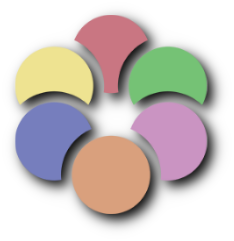
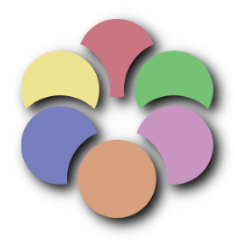
changed button in creator layer (also added quicker connect for faster testing)

Changed region(s): [[0.0598, 0.0581, 0.9872, 0.9585]]

diff --git a/src/Layer/APLogInLayer.cpp b/src/Layer/APLogInLayer.cpp
@@ -154,32 +154,20 @@ bool APLogInLayer::init() {
 
     this->addChild(hostTextLocation);
 
-
     //TEMP
-
-    auto apLayerBtn = CCMenuItemSpriteExtra::create(
-        CCSprite::createWithSpriteFrameName("GJ_arrow_01_001.png"),
+    auto tempConnectButton = CCMenuItemSpriteExtra::create(
+        CCSprite::create("gd-logo.png"_spr),
         this,
-        menu_selector(APLogInLayer::tempAPLayerClick)
+        menu_selector(APLogInLayer::onClickConnectButtonTemp)
     );
-    auto tmp1 = CCMenu::create();
-    tmp1->setPosition({ 75, CCDirector::sharedDirector()->getWinSize().height - 125 });
-    tmp1->addChild(apLayerBtn);
-	tmp1->setID("top-left-temp-ap-layer-btn");
-    this->addChild(tmp1);
 
-    auto progLayerBtn = CCMenuItemSpriteExtra::create(
-        CCSprite::createWithSpriteFrameName("GJ_arrow_02_001.png"),
-        this,
-        menu_selector(APLogInLayer::tempProgressLayerClick)
-    );
-    auto tmp2 = CCMenu::create();
-    tmp2->setPosition({ 505, CCDirector::sharedDirector()->getWinSize().height - 125 });
-    tmp2->addChild(progLayerBtn);
-	tmp2->setID("top-left-temp-prog-layer-btn");
-    this->addChild(tmp2);
-    
-	//TEMP
+	auto tempConnectButtonLocation = CCMenu::create();
+	tempConnectButtonLocation->addChild(tempConnectButton);
+	tempConnectButtonLocation->setPosition({ CCDirector::sharedDirector()->getWinSize().width - 50, 150 });
+	tempConnectButtonLocation->setID("temp-connect-button");
+	
+    this->addChild(tempConnectButtonLocation);
+    //TEMP
 
     return true;
 }
@@ -289,20 +277,37 @@ void APLogInLayer::onClickArchiHostButton(CCObject* btn) {
     }
 }
 
-/*
-void APLogInLayer::connectSuccess() {
-    // goto main screen
-}
-*/
+//TEMP
+void APLogInLayer::onClickConnectButtonTemp(CCObject* btn) {
 
-void APLogInLayer::tempProgressLayerClick(CCObject* btn) {
-    FLAlertLayer::create(
-                "Error",
-                "Connection timed out",
-                "OK"
-                )->show();
-}
+    std::string portStr = this->inputTxtPort->getString();
+    std::string slotNameStr = this->inputTxtName->getString();
+    std::string passwordStr = this->inputTxtPassword->getString();
 
-void APLogInLayer::tempAPLayerClick(CCObject* btn) {
-    APLayer::create()->show();
+    logged_in = true;
+
+    //AP Init
+    const char* host = "localhost:38281";
+    const char* gameName = "Geometry Dash";
+    const char* slotName = "Player1";
+    const char* password = "";
+
+    AP_Init(host, gameName, slotName, password);
+    AP_SetItemClearCallback(&APConnection::clearItemCallback);
+    AP_SetItemRecvCallback(&APConnection::itemReceivedCallback);
+    AP_SetLocationCheckedCallback(&APConnection::locationCheckedCallback);
+
+    // register slot callbacks BEFORE starting the client so slot data is delivered to our callbacks
+    APConnection::worldInputInit();
+
+    AP_Start();
+
+    geode::log::info("Before initOnConnect: {}", APConnection::isInitComplete());
+    // initOnConnect will perform background registration and set an internal flag when done.
+    APConnection::initOnConnect();
+
+    // schedule a UI-thread check to open APLayer once initOnConnect finished.
+    // check every 0.1s; the scheduled callback runs on the main thread.
+    this->schedule(schedule_selector(APLogInLayer::checkInit), 0.1f);
 }
+//TEMP

diff --git a/src/main.cpp b/src/main.cpp
@@ -17,7 +17,7 @@ class $modify(menu, CreatorLayer) {
 
 		auto bottomLeftMenu = this->getChildByID("bottom-left-menu");
 		auto apButton = CCMenuItemSpriteExtra::create(
-			CCSprite::create("archi_shadow.png"_spr),
+			CircleButtonSprite::createWithSprite("archi_shadow.png"_spr, 1.2f),
 			this,
 			menu_selector(menu::onAPButtonClick)
 		);

diff --git a/src/Layer/APLogInLayer.hpp b/src/Layer/APLogInLayer.hpp
@@ -16,9 +16,7 @@ public:
 
     void onBackButtonClick(CCObject* btn);
 	void onClickConnectButton(CCObject* btn);
-
-    void tempProgressLayerClick(CCObject* btn);
-    void tempAPLayerClick(CCObject* btn);
+	void onClickConnectButtonTemp(CCObject* btn);
 
 	void onClickArchiHostButton(CCObject* btn);
 	//void connnectSuccess();
